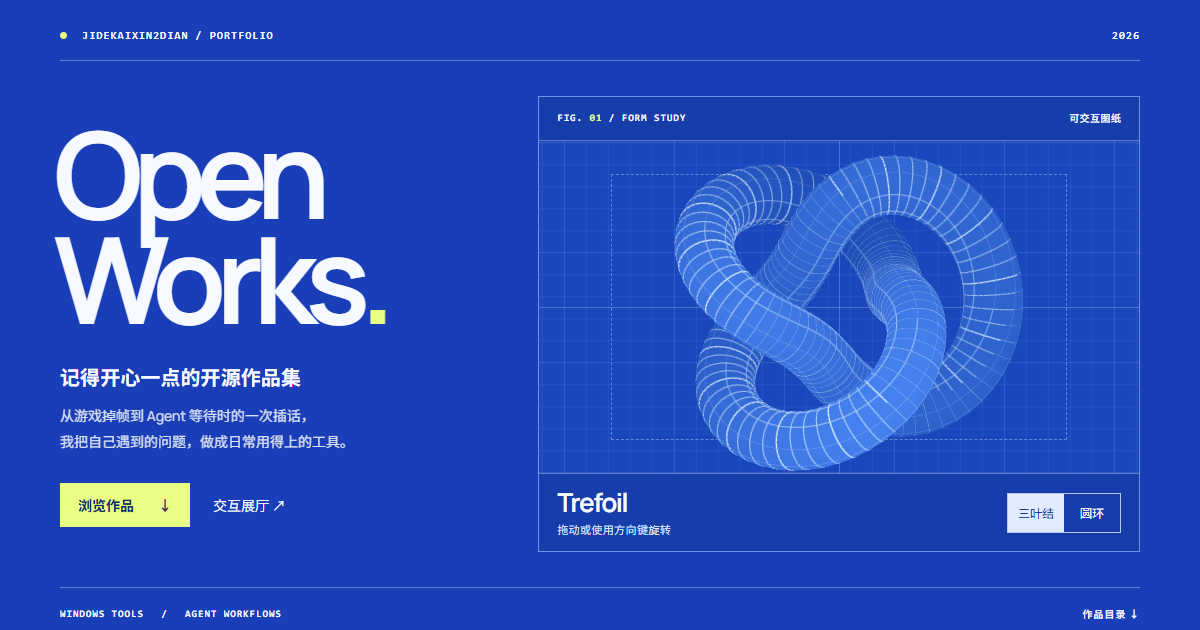
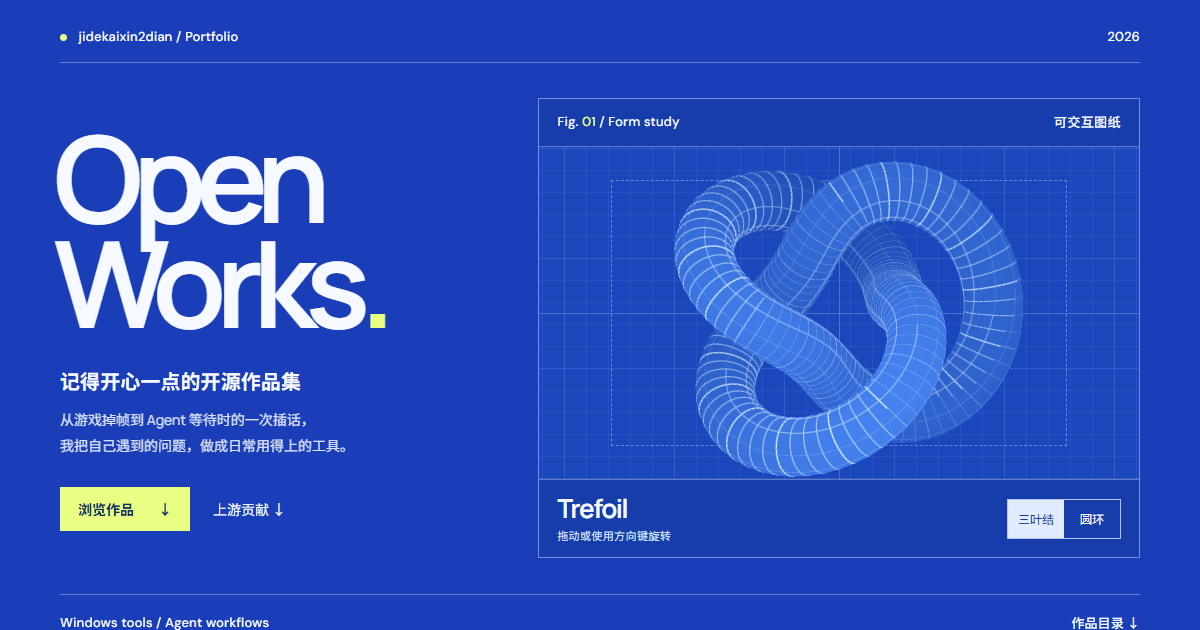
Use proportional labels and verified FpsTune 0.6.0 screenshots

diff --git a/journey.js b/journey.js
@@ -1,7 +1,7 @@
 import {createJourneyScene} from './journey-scene.js?v=3';
 const $=s=>document.querySelector(s), reduced=matchMedia('(prefers-reduced-motion: reduce)');
 const branches={
-  fps:{mode:0,specimen:'FPS / SYSTEM TUNING',meta:'FPS 帧律 · v0.6.0 / 历史界面回看',title:'每次调校，<br>都有依据。',description:'检测、审阅、实测与还原，接到同一张工作台。',chapters:[['先看清，<br>再动手。','系统设置分散在各处。先把这台电脑的状态放到一起。'],['先有依据，<br>再做改变。','把解释、审阅和备份接起来。用同机实测，判断改动是否值得保留。']],proof:'图中保留 v0.3.0 的工作台。v0.6.0 进一步区分采样失败的原因，让用户知道何时需要管理员权限，何时该检查目标窗口。',boundary:'实际收益取决于硬件、驱动和游戏条件，不承诺固定帧率提升。真实 FPS 采样需要官方 PresentMon；ICC 效果取决于应用支持，缓存清理不能还原。',source:'https://github.com/jidekaixin2dian/fps-tune',release:'https://github.com/jidekaixin2dian/fps-tune/releases/latest'},
+  fps:{mode:0,specimen:'FPS / System tuning',meta:'FPS 帧律 · v0.6.0',title:'每次调校，<br>都有依据。',description:'检测、审阅、实测与还原，接到同一张工作台。',chapters:[['先看清，<br>再动手。','系统设置分散在各处。先把这台电脑的状态放到一起。'],['先有依据，<br>再做改变。','把解释、审阅和备份接起来。用同机实测，判断改动是否值得保留。']],proof:'图中展示 v0.6.0 的工作台。v0.6.0 进一步区分采样失败的原因，让用户知道何时需要管理员权限，何时该检查目标窗口。',boundary:'实际收益取决于硬件、驱动和游戏条件，不承诺固定帧率提升。真实 FPS 采样需要官方 PresentMon；ICC 效果取决于应用支持，缓存清理不能还原。',source:'https://github.com/jidekaixin2dian/fps-tune',release:'https://github.com/jidekaixin2dian/fps-tune/releases/latest'},
   context:{mode:1,specimen:'CONTEXT / LESS IS USEFUL',meta:'Toolgate · 工具闸门 · 原创社区插件',title:'工具很多。<br>只带需要的。',description:'配置继续保留，暂时隐藏不需要的工具说明。',chapters:[['工具越多，<br>上下文越满。','MCP 工具的完整 schema 会进入请求。真正开始工作之前，先选好这一轮需要的工具。'],['配置留下。<br>上下文轻下来。','按服务器分组隐藏 schema。MCP 进程继续运行，需要时再恢复。']],proof:'Toolgate · 工具闸门把配置与暴露分开：在 prompt 组装前，隐藏这一轮不需要的整组工具 schema。提供 MCP 服务器配置、Skill 管理和当前会话预算入口。',boundary:'这里展示的是机制示意，不是产品设置页。token 数为描述估算；部分在 Agent 作用域动态注册的 MCP 工具无法由此隐藏。独立社区插件，不代表 DeepSeek 官方产品。',source:'https://github.com/jidekaixin2dian/dsh-toolgate',release:'https://github.com/jidekaixin2dian/dsh-toolgate/releases/latest'},
   handoff:{mode:2,specimen:'HANDOFF / KEEP GOING',meta:'handoff · 原创 Skill',title:'换个对话。<br>项目，接着做。',description:'留下可靠状态、下一步，以及找到证据的入口。',chapters:[['对话会结束。<br>线索不能断。','一个长任务，需要的不只是聊天记录。先核实工作区，分清完成与计划。'],['把状态、证据，<br>交到下一双手里。','整理一个轻量入口。背景按需读取，下一步从真实状态出发。']],proof:'handoff 先核实真实工作区，再把当前状态、下一步、关键约束与证据入口整理成交接文件。原始证据保留，细节按需读取，无需额外服务。',boundary:'展示内容为公开交接方法的结构示意，不是一次真实交接记录。检查通过与人工接受分别记录；没有跨模型评测或 token 节省测量。',source:'https://github.com/jidekaixin2dian/handoff',release:'https://github.com/jidekaixin2dian/handoff/blob/main/docs/example.md'}
 };
@@ -12,9 +12,9 @@ const scene=createJourneyScene($('#journey-scene'),target,p=>update(p));
 const documentMarkup=()=>`<div class="handoff-document"><small>HANDOFF / 公开方法 · 结构示意</small><h3>让下一次，接得下去。</h3><ol><li>当前状态<span>核实工作区</span></li><li>关键约束<span>保留已有工作</span></li><li>下一步<span>可执行的起点</span></li><li>证据入口<span>细节按需读取</span></li></ol></div>`;
 const schemas=()=>Array.from({length:16},()=>'<i></i>').join('');
 const mechanismMarkup=()=>`<div class="context-poster"><div class="context-stamp"><span>Toolgate · 工具闸门</span><strong>机制示意</strong></div><div class="context-cloud" aria-hidden="true">${schemas()}</div><div class="context-selection"><span>GitHub</span><span>文件</span><span>本轮工具</span></div><p>不需要的 schema 暂时隐藏。<br>配置继续保留，需要时再恢复。</p></div>`;
-function outcomeMarkup(){if(current==='fps')return `<div data-image-container><img src="./fps-v030-dark.webp" alt="FPS 帧律 v0.3.0 的真实工作台界面" width="2040" height="1290" decoding="async"><button data-view-image>原尺寸查看 ↗</button></div>`;return current==='context'?mechanismMarkup():documentMarkup();}
-const fpsImages=[['fps-v030-dark.webp','开局工作台'],['fps-v030-detect.webp','系统检测'],['fps-v030-display.webp','显示与画质'],['fps-v030-overview.webp','原生亮色']];
-function renderEvidence(){const b=branches[current];$('#evidence-case').innerHTML=`<div class="case-top"><h3>${current==='fps'?'FPS 帧律':current==='context'?'Toolgate · 工具闸门':'handoff'}</h3><span>${b.meta}</span></div><div class="case-layout"><div>${current==='fps'?`<figure data-image-container><img id="proof-image" src="./fps-v030-dark.webp" alt="FPS 帧律 v0.3.0：开局工作台的真实截图" width="2040" height="1290" loading="lazy" data-view-image><figcaption><span>v0.3.0 历史截图 · 原生 2040 × 1290</span><button data-view-image>原像素查看 ↗</button></figcaption></figure><div class="gallery-choices" role="group" aria-label="切换真实界面">${fpsImages.map(([,name],i)=>`<button data-proof-image="${i}" aria-pressed="${i===0}">${name}</button>`).join('')}</div>`:current==='context'?`<div class="mechanism"><div class="mechanism-top"><span>试着选择这一轮的工具</span><strong>交互示意</strong></div><div class="budget-demo"><label><input type="checkbox" data-budget="GitHub" checked>GitHub · 仓库与代码</label><label><input type="checkbox" data-budget="文件" checked>文件 · 当前工作区</label><label><input type="checkbox" data-budget="浏览器" checked>浏览器 · 网页取材</label><output id="budget-output" aria-live="polite">这一轮带上：GitHub、文件、浏览器</output></div><p class="mechanism-caption">选择仅影响本页示意，不会更改任何实际配置。</p></div>`:documentMarkup()}</div><div class="case-text"><p>${b.proof}</p><p class="boundary">${b.boundary}</p><div class="case-links"><a href="${b.source}" target="_blank" rel="noopener">查看项目 ↗</a><a href="${b.release}" target="_blank" rel="noopener">${current==='handoff'?'公开交接示例':'当前发行版'} ↗</a></div></div></div>`;}
+function outcomeMarkup(){if(current==='fps')return `<div data-image-container><img src="./images/fps-060-home.webp" alt="FPS 帧律 v0.6.0 的真实工作台界面" width="1700" height="1075" decoding="async"><button data-view-image>原尺寸查看 ↗</button></div>`;return current==='context'?mechanismMarkup():documentMarkup();}
+const fpsImages=[['images/fps-060-home.webp','工作台'],['images/fps-060-session.webp','性能会话'],['images/fps-060-optimize.webp','优化设置'],['images/fps-060-settings.webp','设置']];
+function renderEvidence(){const b=branches[current];$('#evidence-case').innerHTML=`<div class="case-top"><h3>${current==='fps'?'FPS 帧律':current==='context'?'Toolgate · 工具闸门':'handoff'}</h3><span>${b.meta}</span></div><div class="case-layout"><div>${current==='fps'?`<figure data-image-container><img id="proof-image" src="./images/fps-060-home.webp" alt="FPS 帧律 v0.6.0：开局工作台的真实截图" width="1700" height="1075" loading="lazy" data-view-image><figcaption><span>v0.6.0 · 原生 1700 × 1075</span><button data-view-image>原像素查看 ↗</button></figcaption></figure><div class="gallery-choices" role="group" aria-label="切换真实界面">${fpsImages.map(([,name],i)=>`<button data-proof-image="${i}" aria-pressed="${i===0}">${name}</button>`).join('')}</div>`:current==='context'?`<div class="mechanism"><div class="mechanism-top"><span>试着选择这一轮的工具</span><strong>交互示意</strong></div><div class="budget-demo"><label><input type="checkbox" data-budget="GitHub" checked>GitHub · 仓库与代码</label><label><input type="checkbox" data-budget="文件" checked>文件 · 当前工作区</label><label><input type="checkbox" data-budget="浏览器" checked>浏览器 · 网页取材</label><output id="budget-output" aria-live="polite">这一轮带上：GitHub、文件、浏览器</output></div><p class="mechanism-caption">选择仅影响本页示意，不会更改任何实际配置。</p></div>`:documentMarkup()}</div><div class="case-text"><p>${b.proof}</p><p class="boundary">${b.boundary}</p><div class="case-links"><a href="${b.source}" target="_blank" rel="noopener">查看项目 ↗</a><a href="${b.release}" target="_blank" rel="noopener">${current==='handoff'?'公开交接示例':'当前发行版'} ↗</a></div></div></div>`;}
 function select(id,{route=true,restart=false}={}){
   if(restart)jump(0,true);
   if(!Object.hasOwn(branches,id))id='fps';current=id;phase=-1;const b=branches[id];document.body.dataset.world=id;document.querySelector('meta[name="theme-color"]').content={fps:'#101210',context:'#eef1fa',handoff:'#b94732'}[id];
@@ -43,7 +43,7 @@ document.querySelectorAll('[data-jump]').forEach(b=>b.addEventListener('click',(
 $('#journey-next').addEventListener('click',()=>{const p=target();jump(p<.28?.34:p<.58?.65:p<.91?.98:0);});
 $('#journey-motion').addEventListener('click',()=>{paused=!paused;syncMotion();scene.setPaused(paused);});
 function syncMotion(){$('#journey-motion').textContent=paused?'继续自转':'暂停自转';$('#journey-motion').setAttribute('aria-pressed',String(paused));}
-$('#evidence-case').addEventListener('click',e=>{const button=e.target.closest('[data-proof-image]');if(!button)return;const [src,label]=fpsImages[Number(button.dataset.proofImage)];$('#proof-image').src='./'+src;$('#proof-image').alt='FPS 帧律 v0.3.0：'+label+'的真实截图';document.querySelectorAll('[data-proof-image]').forEach(b=>b.setAttribute('aria-pressed',String(b===button)));});
+$('#evidence-case').addEventListener('click',e=>{const button=e.target.closest('[data-proof-image]');if(!button)return;const [src,label]=fpsImages[Number(button.dataset.proofImage)];$('#proof-image').src='./'+src;$('#proof-image').alt='FPS 帧律 v0.6.0：'+label+'的真实截图';document.querySelectorAll('[data-proof-image]').forEach(b=>b.setAttribute('aria-pressed',String(b===button)));});
 $('#evidence-case').addEventListener('change',e=>{if(!e.target.matches('[data-budget]'))return;const active=[...document.querySelectorAll('[data-budget]:checked')].map(input=>input.dataset.budget);$('#budget-output').textContent=active.length?'这一轮带上：'+active.join('、'):'这一轮不带上述工具的 schema，配置继续保留';});
 window.addEventListener('scroll',queueUpdate,{passive:true});window.addEventListener('resize',queueUpdate);window.addEventListener('pageshow',queueUpdate);window.addEventListener('popstate',()=>select(new URLSearchParams(location.search).get('problem'),{route:false}));
 reduced.addEventListener('change',()=>{paused=reduced.matches;syncMotion();queueUpdate();});

diff --git a/site.js b/site.js
@@ -3,9 +3,9 @@ const PROJECTS=window.PORTFOLIO_PROJECTS;
 const $=(selector)=>document.querySelector(selector);
 const SHOWCASES={
   fps:{line:'Windows 系统调校与同机实测',intro:'同一台电脑，调校前后各测一次。',steps:[
-    {label:'工作台',title:'决定今天要改哪些设置',copy:'查看机器状态与待审阅项目。支持恢复的调校项会先保存原值。',focus:'overview',image:'images/01-overview.webp'},
-    {label:'性能会话',title:'看一段实际游戏的帧时间',copy:'选择目标进程并采样。v0.6.0 会说明采样失败的原因，区分权限、图形事件和目标窗口状态。',focus:'session',image:'images/04-session.webp'},
-    {label:'对照一下',title:'用对照结果决定是否保留',copy:'v0.6.0 从「优化 → 对照一下」进入，旁边可打开高级 A/B 实验。图中保留早期版本的独立侧栏入口。',focus:'experiment',image:'images/05-ab-experiment.webp'}
+    {label:'工作台',title:'决定今天要改哪些设置',copy:'查看机器状态与待审阅项目。支持恢复的调校项会先保存原值。',focus:'overview',image:'images/fps-060-home.webp'},
+    {label:'性能会话',title:'看一段实际游戏的帧时间',copy:'选择目标进程并采样。v0.6.0 会说明采样失败的原因，区分权限、图形事件和目标窗口状态。',focus:'session',image:'images/fps-060-session.webp'},
+    {label:'优化设置',title:'用对照结果决定是否保留',copy:'v0.6.0 从「优化 → 对照一下」进入，旁边可打开高级 A/B 实验。',focus:'experiment',image:'images/fps-060-optimize.webp'}
   ]},
   desk:{line:'把长任务，放回手边。',intro:'会话、项目和过程，不再散落在窗口之间。',steps:[
     {label:'任务会话',title:'找到正在做的那件事',copy:'用桌面入口集中访问 AI 编码会话。自包含运行时，目标电脑无需另装 Node.js。',focus:'sessions'},
@@ -15,7 +15,7 @@ const SHOWCASES={
 };
 function renderFeatured(p){
   const s=SHOWCASES[p.id],first=s.steps[0];
-  return `<article class="featured-project" data-showcase="${p.id}"><div class="featured-heading"><div><div class="project-meta"><span class="project-role">${p.role}</span><span>${p.tags}</span></div><h3>${p.name}</h3></div><p>${s.line}</p></div><div class="featured-layout"><div class="interface-figure" data-image-container><div class="interface-preview" data-focus="${first.focus}"><img src="./${(first.image||p.image).replace('.png','-2x.webp')}" data-original-src="./${first.image||p.image}" alt="${first.image?`${p.name}：${first.label}的实际界面`:p.imageAlt}" loading="lazy" width="${p.id==='fps'?2040:1361}" height="${p.id==='fps'?1290:901}"></div><button class="preview-open" data-view-image>原尺寸查看 ↗</button></div><div class="featured-copy"><p class="preview-label">实际截图 · ${p.id==='fps'?'历史界面 · 收录于 v0.6.0 文档':'AI 2×增强'} · 点击下方切换</p><p class="featured-intro">${s.intro}</p><div class="interface-tabs" role="tablist" aria-label="${p.name} 界面解读">${s.steps.map((step,i)=>`<button role="tab" id="explore-${p.id}-${i}" aria-selected="${i===0}" aria-controls="explore-panel-${p.id}" tabindex="${i===0?0:-1}" data-explore="${i}"><span aria-hidden="true">0${i+1}</span>${step.label}</button>`).join('')}</div><div class="interface-explanation" id="explore-panel-${p.id}" role="tabpanel" aria-labelledby="explore-${p.id}-0"><h4>${first.title}</h4><p>${first.copy}</p></div><div class="featured-actions"><button class="button primary" data-open="${p.id}">探索 ${p.name}</button><a href="https://github.com/jidekaixin2dian/${p.repo}" target="_blank" rel="noopener noreferrer">查看源码 ↗</a></div></div></div></article>`;
+  return `<article class="featured-project" data-showcase="${p.id}"><div class="featured-heading"><div><div class="project-meta"><span class="project-role">${p.role}</span><span>${p.tags}</span></div><h3>${p.name}</h3></div><p>${s.line}</p></div><div class="featured-layout"><div class="interface-figure" data-image-container><div class="interface-preview" data-focus="${first.focus}"><img src="./${(first.image||p.image).replace('.png','-2x.webp')}" data-original-src="./${first.image||p.image}" alt="${first.image?`${p.name}：${first.label}的实际界面`:p.imageAlt}" loading="lazy" width="${p.id==='fps'?1700:1361}" height="${p.id==='fps'?1075:901}"></div><button class="preview-open" data-view-image>原尺寸查看 ↗</button></div><div class="featured-copy"><p class="preview-label">实际截图 · ${p.id==='fps'?'FPS 帧律 v0.6.0':'AI 2×增强'} · 点击下方切换</p><p class="featured-intro">${s.intro}</p><div class="interface-tabs" role="tablist" aria-label="${p.name} 界面解读">${s.steps.map((step,i)=>`<button role="tab" id="explore-${p.id}-${i}" aria-selected="${i===0}" aria-controls="explore-panel-${p.id}" tabindex="${i===0?0:-1}" data-explore="${i}"><span aria-hidden="true">0${i+1}</span>${step.label}</button>`).join('')}</div><div class="interface-explanation" id="explore-panel-${p.id}" role="tabpanel" aria-labelledby="explore-${p.id}-0"><h4>${first.title}</h4><p>${first.copy}</p></div><div class="featured-actions"><button class="button primary" data-open="${p.id}">探索 ${p.name}</button><a href="https://github.com/jidekaixin2dian/${p.repo}" target="_blank" rel="noopener noreferrer">查看源码 ↗</a></div></div></div></article>`;
 }
 function renderProjects(filter='all'){
   const items=PROJECTS.filter(p=>filter==='all'||p.category===filter);
@@ -44,7 +44,7 @@ function setAbility(id){const a=ABILITIES.find(a=>a.id===id);if(!a)return;docume
 setAbility(ABILITIES[0].id);
 document.querySelectorAll('[data-ability]').forEach((b,index)=>{b.addEventListener('click',()=>setAbility(b.dataset.ability));b.addEventListener('keydown',e=>{let next=index;if(e.key==='ArrowDown'||e.key==='ArrowRight')next=(index+1)%ABILITIES.length;else if(e.key==='ArrowUp'||e.key==='ArrowLeft')next=(index-1+ABILITIES.length)%ABILITIES.length;else if(e.key==='Home')next=0;else if(e.key==='End')next=ABILITIES.length-1;else return;e.preventDefault();setAbility(ABILITIES[next].id);document.querySelector(`[data-ability="${ABILITIES[next].id}"]`).focus();});});
 let previouslyFocused=null,openedProject=null;
-function openProject(id,{syncUrl=true}={}){const p=PROJECTS.find(p=>p.id===id);if(!p)return;if(!$("#project-dialog").open)previouslyFocused=document.activeElement;openedProject=id;$('#dialog-content').innerHTML=`<div class="dialog-meta"><span>${p.role}</span><span>${p.tags}</span></div><h2 id="dialog-title">${p.name}</h2><p class="dialog-subtitle">${p.subtitle}</p>${p.image?`<div data-image-container><img class="dialog-image" src="./${p.image.replace('.png','-2x.webp')}" data-original-src="./${p.image}" alt="${p.imageAlt}" width="${p.id==='fps'?2040:1361}" height="${p.id==='fps'?1290:901}"><button class="preview-open" data-view-image>原尺寸查看 ↗</button></div>`:''}<div class="project-notes"><section><h3>遇到的问题</h3><p>${p.problem}</p></section><section><h3>怎么解决</h3><p>${p.approach}</p></section><section><h3>做到了什么</h3><p>${p.result}</p></section></div><p class="project-boundary">${p.boundary}</p><div class="source-links">${p.links.map(([label,url])=>`<a class="button" href="${url}" target="_blank" rel="noopener noreferrer">${label}</a>`).join('')}</div>`;const dialog=$('#project-dialog');if(!dialog.open)dialog.showModal();document.body.classList.add('dialog-open');dialog.scrollTop=0;$('#dialog-close').focus();if(syncUrl){const url=new URL(location.href);url.hash='project/'+id;history.pushState({portfolioProject:id},'',url);}}
+function openProject(id,{syncUrl=true}={}){const p=PROJECTS.find(p=>p.id===id);if(!p)return;if(!$("#project-dialog").open)previouslyFocused=document.activeElement;openedProject=id;$('#dialog-content').innerHTML=`<div class="dialog-meta"><span>${p.role}</span><span>${p.tags}</span></div><h2 id="dialog-title">${p.name}</h2><p class="dialog-subtitle">${p.subtitle}</p>${p.image?`<div data-image-container><img class="dialog-image" src="./${p.image.replace('.png','-2x.webp')}" data-original-src="./${p.image}" alt="${p.imageAlt}" width="${p.id==='fps'?1700:1361}" height="${p.id==='fps'?1075:901}"><button class="preview-open" data-view-image>原尺寸查看 ↗</button></div>`:''}<div class="project-notes"><section><h3>遇到的问题</h3><p>${p.problem}</p></section><section><h3>怎么解决</h3><p>${p.approach}</p></section><section><h3>做到了什么</h3><p>${p.result}</p></section></div><p class="project-boundary">${p.boundary}</p><div class="source-links">${p.links.map(([label,url])=>`<a class="button" href="${url}" target="_blank" rel="noopener noreferrer">${label}</a>`).join('')}</div>`;const dialog=$('#project-dialog');if(!dialog.open)dialog.showModal();document.body.classList.add('dialog-open');dialog.scrollTop=0;$('#dialog-close').focus();if(syncUrl){const url=new URL(location.href);url.hash='project/'+id;history.pushState({portfolioProject:id},'',url);}}
 document.addEventListener('click',e=>{const opener=e.target.closest('[data-open]');if(opener)openProject(opener.dataset.open);});
 $('#dialog-close').addEventListener('click',()=>$('#project-dialog').close());
 $('#project-dialog').addEventListener('click',e=>{if(e.target!==e.currentTarget)return;const r=e.currentTarget.getBoundingClientRect();if(e.clientX<r.left||e.clientX>r.right||e.clientY<r.top||e.clientY>r.bottom)e.currentTarget.close();});

diff --git a/portfolio.css b/portfolio.css
@@ -2,7 +2,7 @@
 @font-face{font-family:JK;src:url(./fonts/jk-text.woff2) format("woff2");font-weight:100 900;font-display:swap}
 :root{
   --sans:Manrope,JK,"Microsoft YaHei",sans-serif;--serif:Georgia,"Noto Serif CJK SC","Songti SC",SimSun,serif;
-  --mono:Consolas,"Courier New",monospace;--display:var(--sans);--ink:#142345;--muted:#53627b;--paper:#f7f9fc;
+  --display:var(--sans);--ink:#142345;--muted:#53627b;--paper:#f7f9fc;
   --surface:#fff;--line:#cbd4e3;--accent:#183fb9;--hero:#193eb8;--hero-ink:#f6f9ff;--hair:#ffffff52;--highlight:#e8ff83;
   --edge:clamp(22px,5vw,88px);font-family:var(--sans);color:var(--ink);background:var(--paper);scroll-padding-top:20px
 }
@@ -26,7 +26,7 @@ button:active,.cta:active{translate:0 1px}p,h1,h2,h3,h4{margin:0}img{display:blo
 .editions i,.folio-line i{display:inline-block;width:8px;height:8px;border-radius:50%;background:#234ed4}.editions button:last-child i{background:#b26839}
 .editions [aria-pressed="true"]{background:var(--ink);color:var(--surface)}.editions [aria-pressed="true"] i{box-shadow:0 0 0 1px #fff8}
 .hero{background:var(--hero);color:var(--hero-ink)}.hero>.wrap{min-height:calc(100svh - 77px);display:flex;flex-direction:column;padding-block:28px 20px}
-.folio-line,.hero-foot,.plate-top,.photo-line,.kicker,.preview-label,.mono{font:600 11px/1.5 var(--mono);letter-spacing:.095em}
+.folio-line,.hero-foot,.plate-top,.photo-line,.kicker,.preview-label,.mono{font:500 13px/1.45 var(--label-face);letter-spacing:.015em}
 .folio-line,.hero-foot,.plate-top,.plate-foot,.photo-line,.filter-bar,.section-heading,.featured-heading,.dialog-top{display:flex;align-items:center;justify-content:space-between;gap:20px}
 .folio-line{padding-bottom:15px;border-bottom:1px solid var(--hair)}.folio-line i{background:var(--highlight);margin-right:8px;width:7px;height:7px}
 .hero-spread{display:grid;grid-template-columns:0.82fr 1.18fr;align-items:center;gap:clamp(26px,5vw,70px);padding-block:clamp(30px,5vh,62px);flex:1}
@@ -35,9 +35,9 @@ button:active,.cta:active{translate:0 1px}p,h1,h2,h3,h4{margin:0}img{display:blo
 .deck{font-size:clamp(14px,1.05vw,17px);line-height:1.85;margin-top:12px;opacity:.87}
 .hero-actions{gap:23px;margin-top:28px;flex-wrap:wrap}.cta,.button{display:inline-flex;align-items:center;justify-content:center;gap:24px;min-height:44px;padding:10px 18px;font-size:14px;font-weight:700}
 .cta{background:var(--highlight);color:#162f63}.cta:hover,.button.primary:hover{filter:brightness(.94)}.quiet{font-size:14px;padding-block:12px}
-.hero-foot{border-top:1px solid var(--hair);padding-top:13px;font-size:10px}.hero-foot a{padding:6px 0;font-family:var(--sans)}
+.hero-foot{border-top:1px solid var(--hair);padding-top:13px;font-size:13px}.hero-foot a{padding:6px 0;font-family:var(--sans)}
 .plate{border:1px solid #98b8ffad;background:#163da9;position:relative}
-.plate-top,.plate-foot{padding:14px 18px;color:#f4f8ff}.plate-top{border-bottom:1px solid var(--hair);font-size:10px}
+.plate-top,.plate-foot{padding:14px 18px;color:#f4f8ff}.plate-top{border-bottom:1px solid var(--hair);font-size:13px}
 .plate-top b{color:var(--highlight);font-weight:inherit}.plate-top span:last-child,.plate-foot small,.shape-controls{font-family:var(--sans);letter-spacing:.035em}
 .drawing{position:relative;height:clamp(270px,min(34vw,47vh),510px);overflow:hidden;
   background-color:#1b47bd;background-image:linear-gradient(#c2d5ff14 1px,transparent 1px),linear-gradient(90deg,#c2d5ff14 1px,transparent 1px),linear-gradient(#c2d5ff15 1px,transparent 1px),linear-gradient(90deg,#c2d5ff15 1px,transparent 1px);
@@ -75,9 +75,9 @@ button:active,.cta:active{translate:0 1px}p,h1,h2,h3,h4{margin:0}img{display:blo
 .project-grid{display:grid;grid-template-columns:repeat(3,minmax(0,1fr));border-top:1px solid var(--line)}
 .project-card{border-bottom:1px solid var(--line);padding:24px 20px 18px;display:flex}.project-card:nth-child(3n+1){padding-left:0}.project-card:nth-child(3n){padding-right:0}
 .project-body{display:flex;flex-direction:column;align-items:start}.project-body h3{margin:13px 0 9px;font:700 clamp(21px,2vw,32px)/1.3 var(--display);letter-spacing:-.04em;overflow-wrap:anywhere}
-.project-actions{margin-top:auto;padding-top:12px}.project-actions a{font:600 11px var(--mono);letter-spacing:.05em;padding:12px 0}.project-actions button:after{content:" ↗"}
+.project-actions{margin-top:auto;padding-top:12px}.project-actions a{font:550 13px var(--label-face);letter-spacing:.01em;padding:12px 0}.project-actions button:after{content:" ↗"}
 .ability-layout,.about{display:grid;grid-template-columns:1fr 1.5fr;gap:clamp(26px,5vw,80px)}.ability-tabs,.ability-evidence{display:grid}.ability-tabs button,.ability-evidence button{display:flex;align-items:center;gap:15px;text-align:left;border-bottom:1px solid var(--line);padding:14px 4px}
-.ability-tabs [aria-selected="true"]{background:var(--surface);color:var(--accent);font-weight:700}.ability-number{font:12px var(--mono);color:var(--muted)}.tab-indicator,.ability-evidence button span{margin-left:auto}
+.ability-tabs [aria-selected="true"]{background:var(--surface);color:var(--accent);font-weight:700}.ability-number{font:12px var(--label-face);color:var(--muted)}.tab-indicator,.ability-evidence button span{margin-left:auto}
 #ability-panel{border-top:2px solid var(--accent);padding:20px 0}#ability-panel h3{font:700 28px/1.3 var(--display);margin:0 0 11px}.stack-tags,.principles{margin:16px 0}.stack-tags span,.principles span{border:1px solid var(--line);padding:4px 9px}
 .ability-evidence h4{margin:10px 0}.about{align-items:center;padding-bottom:90px}.about-signature{background:var(--accent);color:#fff;padding:30px;display:grid;align-content:space-between;min-height:240px}
 .oversize-mark{font:800 110px/1 Manrope,sans-serif;letter-spacing:-.1em}.signature-dot{color:#ecff9d}.about h2{font-size:clamp(30px,3.4vw,52px);margin:0 0 15px}.about-copy p+p{margin-top:8px}
@@ -90,13 +90,13 @@ footer.wrap{padding-block:25px;border-top:1px solid var(--line)}.footer-links{ga
 @media(max-width:680px){
   :root{--edge:20px}.mast-inner{min-height:65px;gap:8px}.mast nav{display:none}.brand{gap:7px;font-size:13px}.brand b{width:32px;height:32px;font-size:25px}
   .editions{padding:2px}.editions button{font-size:11px;gap:5px;padding:0 8px;min-height:38px}.editions i{width:6px;height:6px}
-  .hero>.wrap{min-height:calc(100svh - 65px);padding-block:16px 10px}.folio-line{font-size:9px;padding-bottom:10px}
+  .hero>.wrap{min-height:calc(100svh - 65px);padding-block:16px 10px}.folio-line{font-size:12px;padding-bottom:10px}
   .hero-spread,[data-theme="fieldnotes"] .hero-spread{grid-template-columns:1fr;gap:24px;padding-block:24px}.hero-copy,[data-theme="fieldnotes"] .hero-copy{order:0}
   .hero h1,[data-theme="fieldnotes"] .hero h1{font-size:clamp(59px,13.8vw,89px);margin:0 0 11px;letter-spacing:-.07em}
   .hero h1 br{display:none}.hero h1 br:after{content:" "}.hero h1 em{margin-left:.08em}
   .hero-sub{font-size:17px}.deck{font-size:13px;margin-top:6px}.hero-actions{margin-top:14px;gap:18px}.cta,.quiet{font-size:13px}
-  .drawing{height:clamp(205px,57vw,310px)}.plate-top,.plate-foot{padding:8px 12px}.plate-top{font-size:9px}.plate-foot{min-height:56px}.plate-foot strong{font-size:21px}.plate-foot small{font-size:10px}
-  .photo-frame img{height:clamp(225px,63vw,350px)}.hero-foot{font-size:8px;gap:4px}.hero-foot a{font-size:11px}
+  .drawing{height:clamp(205px,57vw,310px)}.plate-top,.plate-foot{padding:8px 12px}.plate-top{font-size:12px}.plate-foot{min-height:56px}.plate-foot strong{font-size:21px}.plate-foot small{font-size:10px}
+  .photo-frame img{height:clamp(225px,63vw,350px)}.hero-foot{font-size:11px;gap:4px}.hero-foot a{font-size:11px}
   .section-heading{align-items:start;flex-direction:column;gap:10px;margin-bottom:18px}.work,.abilities,.about{padding-top:55px}
   .filter-bar{align-items:start;flex-direction:column;gap:4px}.filter{font-size:12px;padding:9px 8px;min-height:42px}#result-count{margin:2px 4px}
   .featured-layout,.project-grid,.ability-layout,.about{grid-template-columns:1fr}.featured-heading{display:block}.featured-heading>p{margin-top:6px}.featured-project{padding:16px}.featured-layout{gap:12px}
@@ -110,9 +110,9 @@ footer.wrap{padding-block:25px;border-top:1px solid var(--line)}.footer-links{ga
 #pr-count{color:var(--muted);font-size:13px;margin:0 0 11px}
 .release-entry,.pr-entry{display:block;padding:15px 0;border-bottom:1px solid var(--line)}
 .release-entry>span,.pr-entry>span{display:flex;justify-content:space-between;align-items:center;gap:12px}
-.release-entry strong{font-size:17px}.activity-columns small{font:600 12px/1.5 var(--mono);color:var(--accent)}
+.release-entry strong{font-size:17px}.activity-columns small{font:600 12px/1.5 var(--label-face);color:var(--accent)}
 .pr-entry .pr-state{font:600 12px/1.5 var(--sans);color:var(--muted)}
-.pr-entry time,.release-entry time{font:12px/1.5 var(--mono);color:var(--muted)}
+.pr-entry time,.release-entry time{font:12px/1.5 var(--label-face);color:var(--muted)}
 .release-entry p,.pr-entry strong{display:block;margin-top:6px;line-height:1.65;font-size:14px}
 .release-entry p{color:var(--muted)}.pr-entry:hover strong,.release-entry:hover strong{text-decoration:underline;text-underline-offset:3px}
 #pr-archive summary{cursor:pointer;font-size:14px;padding:14px 0;color:var(--accent);font-weight:700}

diff --git a/index.html b/index.html
@@ -19,6 +19,7 @@
   <link rel="stylesheet" href="./portfolio.css"><link rel="stylesheet" href="./image-viewer.css">
   <script src="./projects.js" defer></script><script src="./activity.js" defer></script><script src="./activity-view.js" defer></script><script src="./image-viewer.js" defer></script>
   <script src="./site.js" defer></script><script src="./plate.js" defer></script>
+  <link rel="stylesheet" href="./labels.css">
 </head>
 <body>
   <a class="skip-link" href="#work">跳到作品目录</a>
@@ -33,7 +34,7 @@
   <main>
     <section class="hero" aria-labelledby="hero-title" data-enter>
       <div class="wrap">
-        <div class="folio-line"><span><i></i> JIDEKAIXIN2DIAN / PORTFOLIO</span><span>2026</span></div>
+        <div class="folio-line"><span><i></i> jidekaixin2dian / Portfolio</span><span>2026</span></div>
         <div class="hero-spread">
           <div class="hero-copy">
             <h1 id="hero-title"><span class="blue-only" lang="en">Open<br> Works<span class="stop">.</span></span><span class="field-only" lang="en">Field<br> <em>Notes.</em></span></h1>
@@ -44,7 +45,7 @@
             <div class="hero-actions"><a href="#work" class="cta blue-only">浏览作品 <span>↓</span></a><a href="./go/" class="cta field-only">打开《出去一下》 <span>↗</span></a><a href="#work" class="quiet field-only">浏览作品 ↓</a><a href="#contributions" class="quiet blue-only">上游贡献 ↓</a></div>
           </div>
           <div class="plate blue-only">
-            <div class="plate-top"><span>FIG. <b id="plate-number">01</b> / FORM STUDY</span><span>可交互图纸</span></div>
+            <div class="plate-top"><span>Fig. <b id="plate-number">01</b> / Form study</span><span>可交互图纸</span></div>
             <div class="drawing"><div class="register" aria-hidden="true"></div><img class="still" src="./images/trefoil.webp" alt="" width="960" height="560"><canvas id="plate-canvas" tabindex="0" role="img" aria-label="三叶结三维线稿，使用方向键旋转"></canvas></div>
             <div class="plate-foot"><div><strong id="plate-name">Trefoil</strong><small>拖动或使用方向键旋转</small></div><div class="shape-controls" role="group" aria-label="选择图形"><button data-shape="0" aria-pressed="true">三叶结</button><button data-shape="1" aria-pressed="false">圆环</button></div></div>
           </div>
@@ -53,16 +54,16 @@
             <div class="photo-line"><span>上海 · 七宝老镇</span><a href="./go/">翻开路线 ↗</a></div>
           </div>
         </div>
-        <div class="hero-foot"><span class="blue-only">WINDOWS TOOLS　 /　 AGENT WORKFLOWS</span><span class="field-only">SHANGHAI　 /　 WALKING NOTES</span><a href="#work">作品目录 ↓</a></div>
+        <div class="hero-foot"><span class="blue-only">Windows tools / Agent workflows</span><span class="field-only">Shanghai / Walking notes</span><a href="#work">作品目录 ↓</a></div>
       </div>
     </section>
     <section class="activity wrap" id="contributions" aria-labelledby="activity-title">
-      <div class="section-heading"><div><span class="kicker">CHANGELOG</span><h2 id="activity-title">近期进展<span>.</span></h2></div><p>核对至 <time datetime="2026-11-18">2026 年 11 月 18 日</time></p></div>
+      <div class="section-heading"><div><span class="kicker">Changelog</span><h2 id="activity-title">近期进展<span>.</span></h2></div><p>核对至 <time datetime="2026-11-18">2026 年 11 月 18 日</time></p></div>
       <div class="activity-columns"><div><h3>项目更新</h3><div id="release-list"></div></div>
       <div><h3>上游开源贡献</h3><p id="pr-count"></p><div id="pr-highlights"></div><details id="pr-archive"><summary>完整 PR 记录</summary><div id="pr-list"></div></details></div></div>
     </section>
     <section class="work wrap" id="work" aria-labelledby="work-title">
-      <div class="section-heading"><div><span class="kicker">SELECTED WORK</span><h2 id="work-title">作品目录<span>.</span></h2></div><p>工具、插件和开源贡献</p></div>
+      <div class="section-heading"><div><span class="kicker">Selected work</span><h2 id="work-title">作品目录<span>.</span></h2></div><p>工具、插件和开源贡献</p></div>
       <div class="filter-bar"><div class="filter-group" role="group" aria-label="按领域筛选项目"><button class="filter active" data-filter="all" aria-pressed="true">全部作品</button><button class="filter" data-filter="windows" aria-pressed="false">Windows 工具</button><button class="filter" data-filter="agent" aria-pressed="false">AI 工作流</button><button class="filter" data-filter="interface" aria-pressed="false">界面与体验</button></div><p id="result-count" role="status"></p></div>
       <div id="featured-projects"></div><h3 id="collection-heading">更多作品与开源实践</h3><div id="projects" class="project-grid"></div>
       <noscript><p>可以直接在 <a href="https://github.com/jidekaixin2dian">GitHub</a> 浏览项目与发行记录。</p></noscript>
@@ -72,6 +73,6 @@
   <footer class="wrap"><div class="footer-links"><a class="brand" href="#home"><b>jk.</b>记得开心一点</a><a href="./studio.html">实作档案 ↗</a><a href="./journey.html">交互展厅 ↗</a><a href="./go/">出去一下 ↗</a><a href="https://github.com/jidekaixin2dian">GitHub ↗</a></div>
     <p class="field-only credits">七宝照片 © Fabio Achilli，2013 · <a href="https://commons.wikimedia.org/wiki/File:Qibao_Old_Town,_Shanghai,_China_(9740731704).jpg">原图</a> · <a href="https://creativecommons.org/licenses/by/2.0/">CC BY 2.0</a></p>
   </footer>
-  <dialog id="project-dialog" aria-labelledby="dialog-title"><div class="dialog-top"><span class="kicker">PROJECT NOTES</span><div><button id="share-project">复制作品链接</button><button id="dialog-close" aria-label="关闭项目详情">关闭 ×</button></div></div><div id="dialog-content"></div></dialog>
+  <dialog id="project-dialog" aria-labelledby="dialog-title"><div class="dialog-top"><span class="kicker">Project notes</span><div><button id="share-project">复制作品链接</button><button id="dialog-close" aria-label="关闭项目详情">关闭 ×</button></div></div><div id="dialog-content"></div></dialog>
   <div class="toast" id="toast" role="status"></div>
 </body></html>

diff --git a/studio.js b/studio.js
@@ -2,11 +2,11 @@
 (() => {
   const projects=window.PORTFOLIO_PROJECTS,$=s=>document.querySelector(s);
   const escape=s=>String(s).replace(/[&<>"']/g,c=>({'&':'&amp;','<':'&lt;','>':'&gt;','"':'&quot;',"'":'&#39;'}[c]));
-  const galleries={fps:[['fps-v030-overview.webp','工作台'],['fps-v030-detect.webp','系统检测'],['fps-v030-display.webp','显示与画质'],['fps-v030-dark.webp','开局工作台']],desk:[['piweb-desk.png','桌面界面']]};
+  const galleries={fps:[['images/fps-060-home.webp','工作台'],['images/fps-060-session.webp','性能会话'],['images/fps-060-optimize.webp','优化设置'],['images/fps-060-settings.webp','设置']],desk:[['piweb-desk.png','桌面界面']]};
   let selected=null;
   $('#studio-count').textContent=`${projects.length} 件`;
   $('#studio-project-list').innerHTML=projects.map((p,i)=>`<button class="index-project" role="tab" id="studio-tab-${p.id}" aria-selected="false" aria-controls="studio-case" tabindex="-1" data-studio-project="${p.id}"><span class="index-number" aria-hidden="true">${String(i+1).padStart(2,'0')}</span><span class="index-name">${escape(p.name)}</span><span class="index-arrow" aria-hidden="true">↗</span></button>`).join('');
-  function imageMarkup(p){const list=galleries[p.id];if(!list)return `<blockquote class="case-statement">${escape(p.subtitle)}</blockquote>`;const width=p.id==='fps'?2040:1361,height=p.id==='fps'?1290:901;return `<figure class="case-image" data-image-container><div class="case-image-frame"><img src="./${list[0][0].replace('.png','-2x.webp')}" data-original-src="./${list[0][0]}" alt="${escape(p.name)}：${list[0][1]}的实际界面" width="${width}" height="${height}" data-view-image decoding="async"></div><div class="case-image-controls"><span>真实截图 · ${p.id==='fps'?'v0.3.0 历史截图 · 原生分辨率':'AI 2×增强'}</span><button data-view-image>原像素查看 ↗</button></div></figure>${list.length>1?`<div class="case-gallery" role="group" aria-label="切换 ${escape(p.name)} 截图">${list.map(([,label],i)=>`<button data-studio-gallery="${i}" aria-pressed="${i===0}">${label}</button>`).join('')}</div>`:''}`;}
+  function imageMarkup(p){const list=galleries[p.id];if(!list)return `<blockquote class="case-statement">${escape(p.subtitle)}</blockquote>`;const width=p.id==='fps'?1700:1361,height=p.id==='fps'?1075:901;return `<figure class="case-image" data-image-container><div class="case-image-frame"><img src="./${list[0][0].replace('.png','-2x.webp')}" data-original-src="./${list[0][0]}" alt="${escape(p.name)}：${list[0][1]}的实际界面" width="${width}" height="${height}" data-view-image decoding="async"></div><div class="case-image-controls"><span>真实截图 · ${p.id==='fps'?'FPS 帧律 v0.6.0 · 1700 × 1075':'AI 2×增强'}</span><button data-view-image>原像素查看 ↗</button></div></figure>${list.length>1?`<div class="case-gallery" role="group" aria-label="切换 ${escape(p.name)} 截图">${list.map(([,label],i)=>`<button data-studio-gallery="${i}" aria-pressed="${i===0}">${label}</button>`).join('')}</div>`:''}`;}
   function selectProject(id,{route=true,scroll=true,focus=false}={}){
     const p=projects.find(p=>p.id===id);if(!p)return;selected=id;
     document.querySelectorAll('[data-studio-project]').forEach(b=>{const active=b.dataset.studioProject===id;b.setAttribute('aria-selected',String(active));b.tabIndex=active?0:-1;});

diff --git a/journey.html b/journey.html
@@ -12,13 +12,14 @@
   <meta property="og:image" content="https://jidekaixin2dian.github.io/share-cover.png">
   <link rel="preload" href="./fonts/manrope-latin.woff2" as="font" type="font/woff2" crossorigin>
   <link rel="preload" href="./fonts/jk-text.woff2" as="font" type="font/woff2" crossorigin>
-  <link rel="preload" href="./fps-v030-dark.webp" as="image">
+  <link rel="preload" href="./images/fps-060-home.webp" as="image">
   <link rel="stylesheet" href="./typography.css">
   <link rel="stylesheet" href="./journey.css">
   <link rel="stylesheet" href="./journey-worlds.css?v=3">
   <link rel="stylesheet" href="./image-viewer.css">
   <script src="./image-viewer.js" defer></script>
   <script type="module" src="./journey.js?v=3"></script>
+  <link rel="stylesheet" href="./labels.css">
 </head>
 <body>
   <script>{const world=new URLSearchParams(location.search).get('problem');document.body.dataset.world=['fps','context','handoff'].includes(world)?world:'fps';}</script>
@@ -39,7 +40,7 @@
           <div class="intro-bottom"><p>想法有很多种形状。<br>这一次，让它变成你需要的工具。</p><button class="start-experience" data-jump=".25">往下，看看它会成为什么 <span aria-hidden="true">↓</span></button></div>
         </div>
         <div class="chapter-copy" aria-hidden="true"><p class="chapter-label" id="chapter-label">01 / 看清问题</p><h2 id="chapter-title">先看清，<br>再动手。</h2><p id="chapter-description"></p></div>
-        <div class="specimen-label" aria-hidden="true"><span id="specimen-name">FPS / SYSTEM TUNING</span><span>想法 → 结构 → 工具</span></div>
+        <div class="specimen-label" aria-hidden="true"><span id="specimen-name">FPS / System tuning</span><span>想法 → 结构 → 工具</span></div>
         <div class="journey-outcome" id="outcome" aria-hidden="true" inert>
           <div class="outcome-copy"><p class="chapter-label" id="outcome-meta"></p><h2 id="outcome-title"></h2><p id="outcome-description"></p><a id="outcome-link" href="#evidence">看看这个作品 <span aria-hidden="true">↘</span></a></div>
           <div class="outcome-visual" id="outcome-visual"></div>
@@ -62,6 +63,6 @@
       <a class="all-work" href="./studio.html#work"><span>继续翻阅全部作品</span><span aria-hidden="true">↗</span></a>
     </section>
   </main>
-  <footer class="journey-footer"><a href="./">记得开心一点。</a><span>KEEP CURIOUS. KEEP BUILDING.</span><a href="https://github.com/jidekaixin2dian" target="_blank" rel="noopener">GitHub ↗</a></footer>
+  <footer class="journey-footer"><a href="./">记得开心一点。</a><span>Keep curious. Keep building.</span><a href="https://github.com/jidekaixin2dian" target="_blank" rel="noopener">GitHub ↗</a></footer>
 </body>
 </html>

diff --git a/typography.css b/typography.css
@@ -1,7 +1,7 @@
 /* Licensed, locally served webfonts. The subset notices travel with the files. */
 @font-face{font-family:"Manrope";src:url("./fonts/manrope-latin.woff2") format("woff2");font-weight:400 800;font-style:normal;font-display:swap;unicode-range:U+0020-024F,U+2000-206F,U+20AC}
 @font-face{font-family:"JK Text";src:url("./fonts/jk-text.woff2") format("woff2");font-weight:400 800;font-style:normal;font-display:swap}
-:root{--sans:"Manrope","JK Text","Microsoft YaHei","PingFang SC",sans-serif;--mono:"Manrope","JK Text",sans-serif;--display:"JK Text","Microsoft YaHei","PingFang SC",sans-serif}
+:root{--sans:"Manrope","JK Text","Microsoft YaHei","PingFang SC",sans-serif;--display:"JK Text","Microsoft YaHei","PingFang SC",sans-serif}
 body{font-synthesis:none;letter-spacing:.012em}
 .mark{display:inline-block;flex-shrink:0;width:auto;min-width:48px;height:auto;background:none;color:var(--ink);padding:0;font-family:"Manrope",sans-serif;font-size:36px;font-weight:800;letter-spacing:-.07em;line-height:1.2;border-radius:0}
 .brand-dot{color:var(--accent)}
@@ -20,8 +20,8 @@ h2{font-family:var(--display);font-weight:750;letter-spacing:-.04em;line-height:
 .story-copy h2{font-size:clamp(30px,3.4vw,40px);font-weight:750;line-height:1.3;letter-spacing:-.035em;margin-bottom:15px;padding-bottom:.04em}
 .story-copy p{font-size:14px;line-height:1.95;letter-spacing:.025em}
 .scene-topline>span:first-child{letter-spacing:.06em}
-.scene-topline>span:last-child,.story-aside>span{font-family:var(--mono);font-size:11px;font-weight:600;letter-spacing:.15em}
-.mono,.eyebrow,.project-actions a,footer{font-family:var(--mono)}
+.scene-topline>span:last-child,.story-aside>span{font-family:var(--label-face);font-size:11px;font-weight:600;letter-spacing:.15em}
+.mono,.eyebrow,.project-actions a,footer{font-family:var(--label-face)}
 .project-meta,.stack-tags,.dialog-meta{letter-spacing:.025em}
 .eyebrow{font-weight:600;letter-spacing:.15em}
 .project-card h3,#ability-panel h3{letter-spacing:-.025em}

diff --git a/projects.js b/projects.js
@@ -8,8 +8,8 @@ window.PORTFOLIO_PROJECTS = [
     "category": "windows",
     "tags": "C# / WPF / .NET 10",
     "description": "把系统调校变成有依据的选择。从检测、审阅到实测与还原，开局前一次准备好。",
-    "image": "images/01-overview.webp",
-    "imageAlt": "FPS 帧律项目文档中的工作台界面",
+    "image": "images/fps-060-home.webp",
+    "imageAlt": "FPS 帧律 v0.6.0 的首页，展示开局准备、系统状态和常用入口",
     "subtitle": "这项调校值不值得留，用同一台电脑做一次 A/B 对照。",
     "problem": "系统设置、驱动画质和游戏准备散落在不同入口。改了什么、是否有效、怎样恢复，都需要清楚的记录。",
     "approach": "GUI 与 CLI 共用调校引擎，逐项解释状态、权限和副作用。写入受支持的设置前保存原值，再用同机 A/B 与性能会话判断是否保留。",
@@ -33,8 +33,8 @@ window.PORTFOLIO_PROJECTS = [
         "https://github.com/jidekaixin2dian/fps-tune/blob/main/catalog/catalog.json"
       ],
       [
-        "截图来源 · v0.6.0 文档",
-        "https://github.com/jidekaixin2dian/fps-tune/tree/v0.6.0/assets/screenshots"
+        "截图对应版本 · v0.6.0",
+        "https://github.com/jidekaixin2dian/fps-tune/releases/tag/v0.6.0"
       ]
     ],
     "release": {

diff --git a/journey-scene.js b/journey-scene.js
@@ -123,7 +123,7 @@ export function createJourneyScene(host,getProgress,onProgress=()=>{}){
   try{
     renderer=new THREE.WebGLRenderer({alpha:true,antialias:true,powerPreference:'default'});renderer.setPixelRatio(Math.min(devicePixelRatio||1,mobile.matches?1.6:2));renderer.outputColorSpace=THREE.SRGBColorSpace;renderer.toneMapping=THREE.NoToneMapping;
     scene=new THREE.Scene();camera=new THREE.OrthographicCamera(-5,5,3,-3,.1,30);camera.position.z=10;
-    texture=new THREE.TextureLoader().load('./fps-v030-dark.webp',wake);texture.colorSpace=THREE.SRGBColorSpace;texture.anisotropy=Math.min(8,renderer.capabilities.getMaxAnisotropy());textures.push(texture);
+    texture=new THREE.TextureLoader().load('./images/fps-060-home.webp',wake);texture.colorSpace=THREE.SRGBColorSpace;texture.anisotropy=Math.min(8,renderer.capabilities.getMaxAnisotropy());textures.push(texture);
     fps=buildFps();context=buildContext();paper=buildPaper();scene.add(new THREE.AmbientLight(0xfff4df,2.1));const light=new THREE.DirectionalLight(0xffffff,2.5);light.position.set(-3,4,7);scene.add(light);
     host.append(renderer.domElement);host.dataset.renderer='webgl';
     renderer.domElement.addEventListener('webglcontextlost',e=>{e.preventDefault();lost=true;host.dataset.renderer='fallback';stop();});

diff --git a/labels.css b/labels.css
@@ -1,0 +1,17 @@
+@font-face {
+  font-family: "DM Sans";
+  src: url("./fonts/dm-sans-latin.woff2") format("woff2");
+  font-weight: 100 1000;
+  font-style: normal;
+  font-display: swap;
+}
+
+:root {
+  --label-face: "DM Sans", "Manrope", "Microsoft YaHei", sans-serif;
+}
+
+.specimen-label, .intro-kicker, .chapter-label, .journey-footer > span,
+.studio-intro-label, .index-number, .case-meta, .case-number, .studio-footer span {
+  font-family: var(--label-face);
+  letter-spacing: .012em;
+}

diff --git a/studio.html b/studio.html
@@ -19,6 +19,7 @@
   <script src="./projects.js" defer></script>
   <script src="./image-viewer.js" defer></script>
   <script src="./studio.js" defer></script>
+  <link rel="stylesheet" href="./labels.css">
 </head>
 <body>
   <a class="studio-skip" href="#work">跳到作品索引</a>

diff --git a/fonts/NOTICE.md b/fonts/NOTICE.md
@@ -1,8 +1,10 @@
 # Font notices
 
-Both fonts are self-hosted and distributed under SIL Open Font License 1.1. The full licenses are included beside the font files.
+These fonts are self-hosted and distributed under SIL Open Font License 1.1. The full licenses are included beside the font files.
 
 - `jk-text.woff2`: a character subset of Noto Sans SC from Google Fonts, with the weight axis limited to 400–800. Source: https://github.com/google/fonts/tree/main/ofl/notosanssc . The derivative family is **JK Text**. Copyright and license notices are retained. See `Noto-OFL.txt`.
 - `manrope-latin.woff2`: a Latin subset of Manrope from Google Fonts, with the weight axis limited to 400–800. Source: https://github.com/google/fonts/tree/main/ofl/manrope . See `Manrope-OFL.txt`.
+
+- `dm-sans-latin.woff2`: proportional DM Sans Latin variable font, distributed by Fontsource. Source: https://github.com/google/fonts/tree/main/ofl/dmsans . See `DM-Sans-OFL.txt`.
 
 Character subsetting and family renaming are performed by `tools/subset-fonts.py`; glyph outlines are unchanged. Font files are part of this website, never served through a third-party CDN.
